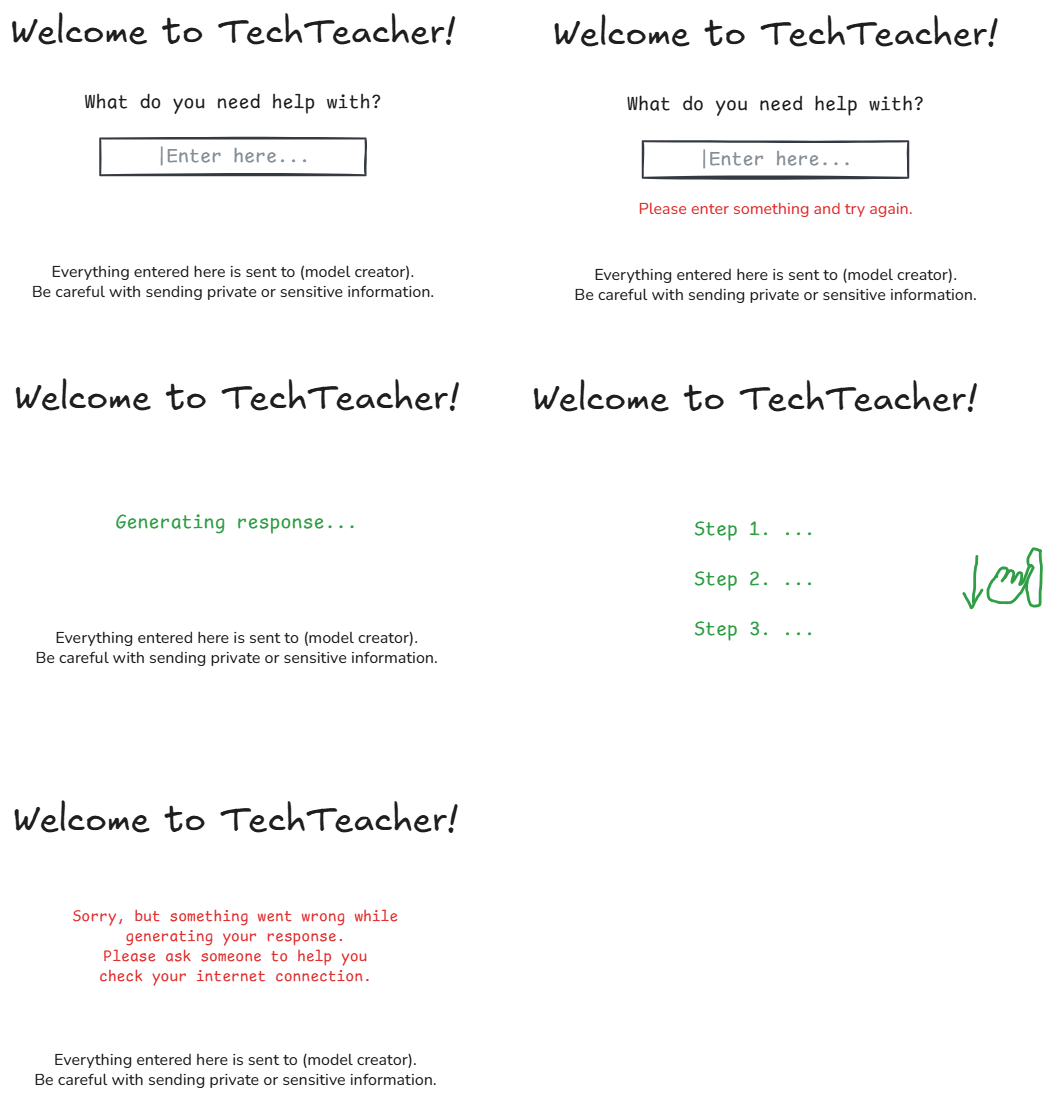
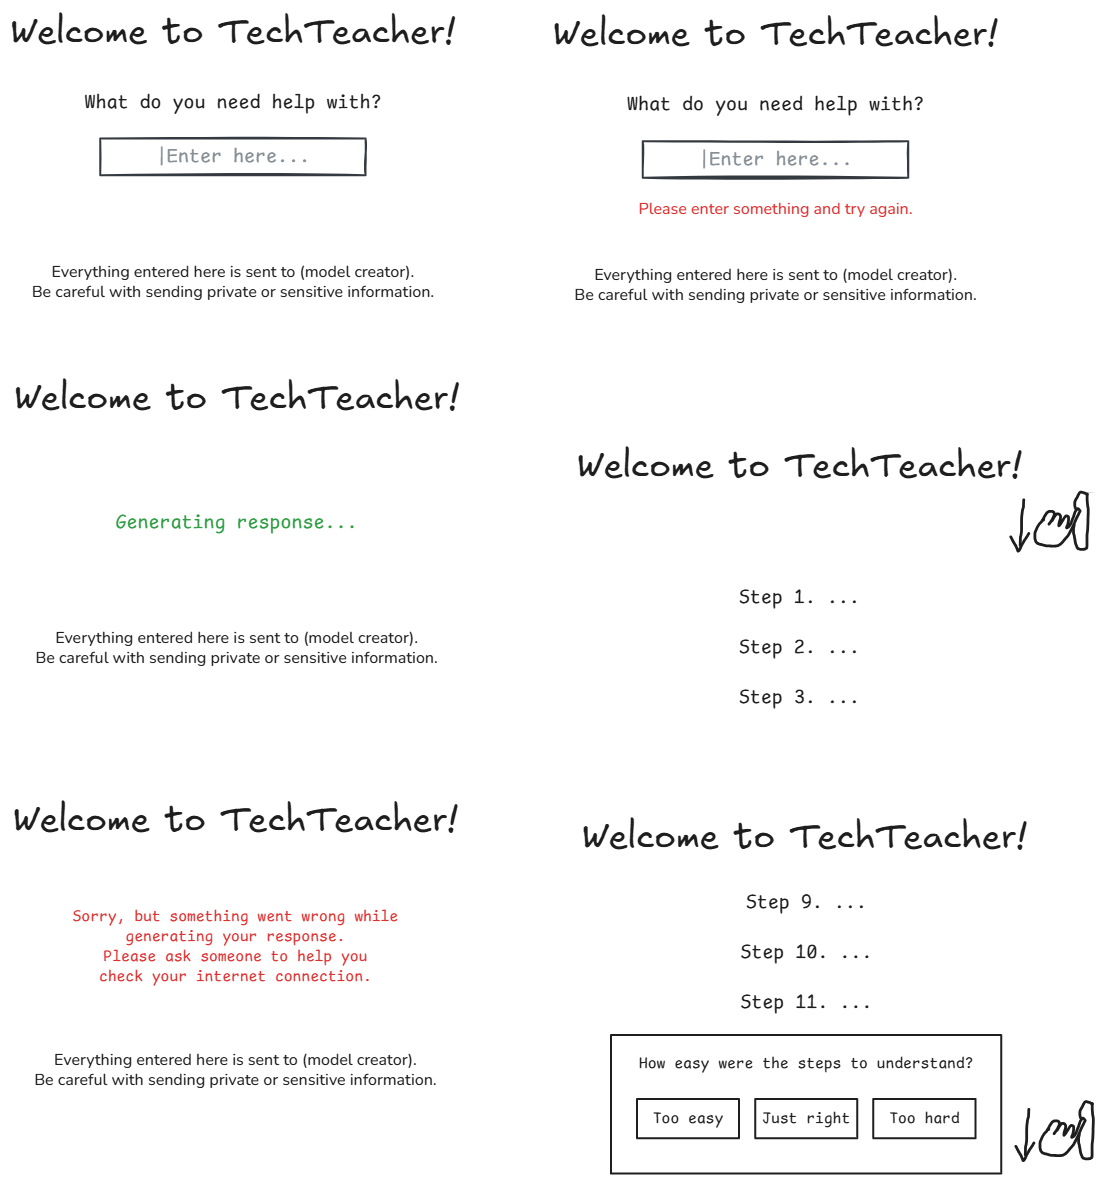
made the flowchart and pseudocode simpler, made the document name better, and added the feedback screen to the app sketch

diff --git a/Day4/Day4_AI_App_Planning_Homework.md b/Day4/Day4_AI_App_Planning_Homework.md
@@ -47,37 +47,37 @@
 
 **Write your program plan in plain English. Include:** START, user input, validation, processing, output, and END. Use IF/ELSE when the app must make a decision.
 
-| 1 | START |
-| :---: | :---- |
-| 2 | REPEAT |
-| 3 | ASK “What do you need help with?” |
-| 4 | IF input field empty |
-| 5 | DISPLAY "Please enter something and try again." |
-| 6 | END IF |
-| 7 | UNTIL NOT input field empty
-| 8 | SAVE INPUT |
-| 9 | PROMPT “You are a mentor and I am a teacher of basic computer skills. A student asked me (INPUT) and you need to tell me what topic to research. I only want 1-3 words that I can use.” |
-| 10 | IF NOT AI responds |
-| 11 | DISPLAY "Sorry, but something went wrong while generating your response. Please ask someone to help you check your internet connection." |
-| 12 | END |
-| 13 | END IF |
-| 14 | SAVE TOPIC |
-| 15 | PROMPT You are a teacher of basic computer skills, and I am a student. How do I (TOPIC)? Explain to me simply. |
-| 16 | IF NOT AI responds |
-| 17 | DISPLAY "Sorry, but something went wrong while generating your response. Please ask someone to help you check your internet connection." |
-| 18 | END |
-| 19 | SAVE SIMPLE\_INSTRUCTIONS |
-| 20 | REPEAT |
-| 21 | PROMPT “You are a writer. Some people don’t understand this (SIMPLE\_INSTRUCTIONS). Break down the steps and make them simpler for them, and display them. Do not lose any information in the process.” |
-| 22 | IF NOT AI responds |
-| 23 | DISPLAY "Sorry, but something went wrong while generating your response. Please ask someone to help you check your internet connection." |
-| 24 | END |
-| 25 | SAVE FINAL\_INSTRUCTIONS |
-| 26 | (SKILL\_SCORE) TIMES |
-| 27 | DISPLAY FINAL\_INSTRUCTIONS |
-| 28 | ASK "How easy were the steps to understand?" |
-| 29 | ADJUST skill_score |
-| 30 | END |
+| START |
+| :---- |
+| REPEAT |
+| ASK “What do you need help with?” |
+| IF input field empty |
+| DISPLAY "Please enter something and try again." |
+| ELSE |
+| BREAK |
+| END IF |
+| UNTIL TRUE |
+| SAVE INPUT |
+| PROMPT “You are a mentor and I am a teacher of basic computer skills. A student asked me (INPUT) and you need to tell me what topic to research. I only want 1-3 words that I can use.” |
+| IF NOT AI response recieved |
+| DISPLAY "Sorry, but something went wrong while generating your response. Please ask someone to help you check your internet connection." |
+| END |
+| END IF |
+| SAVE TOPIC |
+| PROMPT You are a teacher of basic computer skills, and I am a student. How do I (INPUT)? Research (TOPIC) if needed. Explain to me in simple terms based on my skill score of (SKILL_SCORE) from 1-10 where 1 means \"I know absolutely nothing\" and 10 means \"I know absolutely everything\". |
+| IF NOT AI responds |
+| DISPLAY "Sorry, but something went wrong while generating your response. Please ask someone to help you check your internet connection." |
+| END |
+| SAVE INSTRUCTIONS |
+| DISPLAY INSTRUCTIONS |
+| ASK "How easy were the steps to understand?" |
+| DISPLAY "Too easy" \| "Just right" \| "Too hard" |
+| IF FEEDBACK IS "Too easy" |
+| SET SKILL_SCORE TO SKILL_SCORE + 1 |
+| ELSE IF FEEDBACK IS "Too hard" |
+| SET SKILL_SCORE TO SKILL_SCORE - 1 |
+| DISPLAY "Thanks for your feedback!" |
+| END |
 
 **5\. Flowchart**
 
